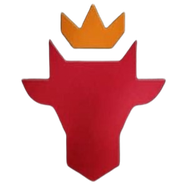
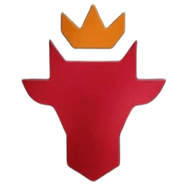
first commit

diff --git a/public/sw.js b/public/sw.js
@@ -1,4 +1,4 @@
-const CACHE_NAME = "inventario-cache-v1";
+const CACHE_NAME = "inventario-cache-v2";
 const ASSETS_TO_CACHE = [
   "/",
   "/login",